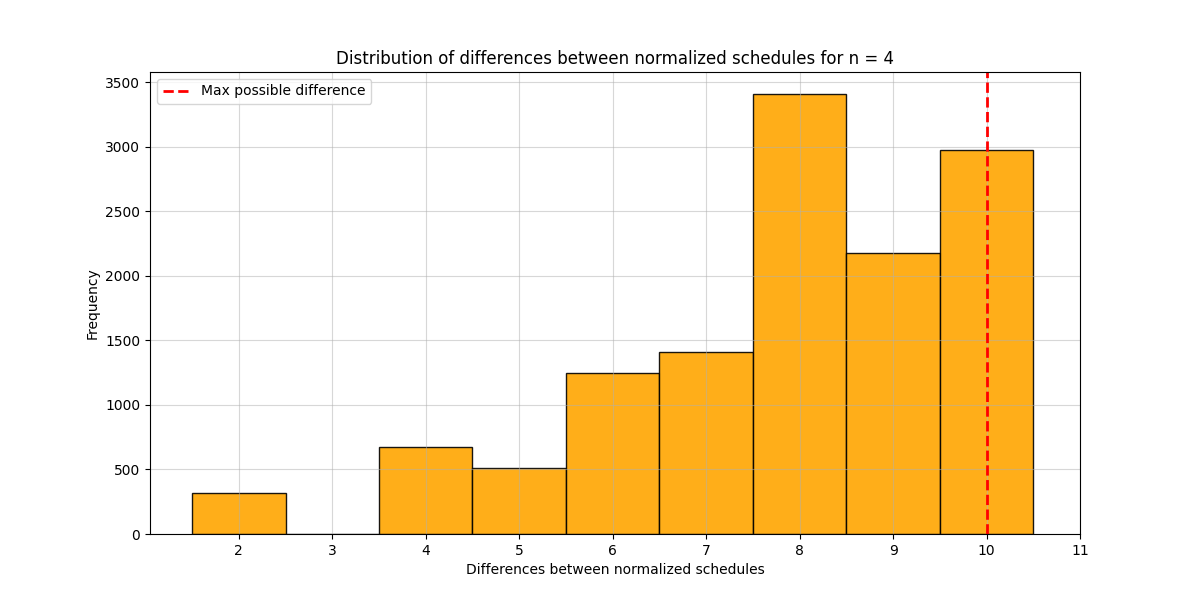
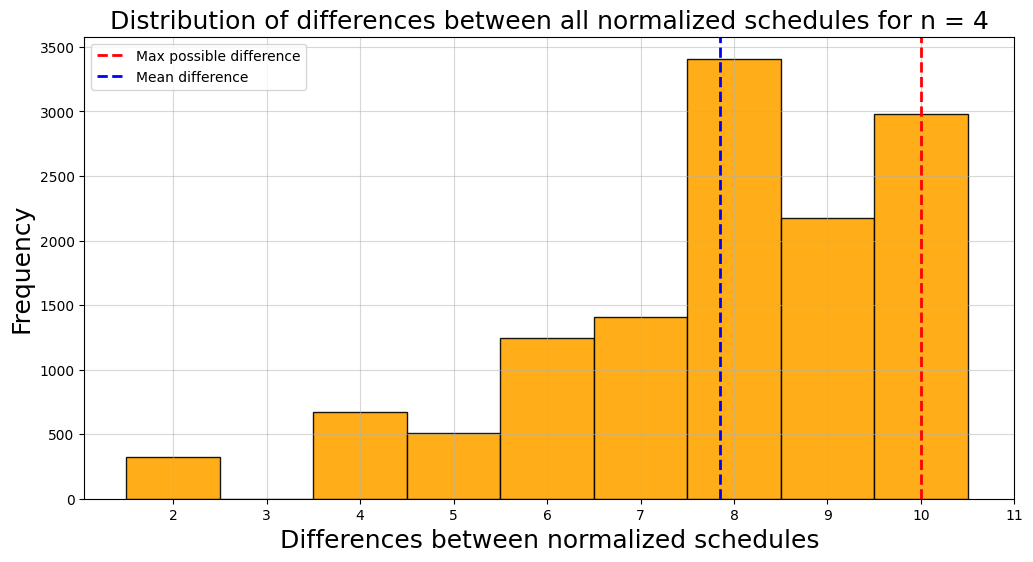
Plot updates

diff --git a/plot.py b/plot.py
@@ -46,44 +46,49 @@ def plot_upper_bound(max):
 
 
 def plot_diff_norm(file_path, n, plot_ID, title_add=""):
-    distances = [int(dist) for dist in open(file_path, "r").read()[:-1].split(",")]
+    differances = [int(diff) for diff in open(file_path, "r").read()[:-1].split(",")]
     name = file_path.split("\\")[-1].split(".")[0].split(" ")[-1]
 
-    max_dist = calc_matchups(n) - (n//2)
-    min_dist = min(distances)
+    fontsize = 18
 
-    # Plot type 2 is round based, so the max distance is the number of rounds - 1 for normalized schedules
+    max_diff = calc_matchups(n) - (n//2)
+    min_diff = min(differances)
+    mean_diff = np.mean(differances)
+
+    # Plot type 2 is round based, so the max diffance is the number of rounds - 1 for normalized schedules
     if plot_ID == 2:
-        max_dist = 2 * (n-1) - 1
-        print(max_dist)
+        max_diff = 2 * (n-1) - 1
+        print(max_diff)
 
-    x_axis = range(min_dist, max_dist + 2)
+    x_axis = range(min_diff, max_diff + 2)
 
     plt.figure(figsize=(12, 6))
-    plt.hist(distances, bins=x_axis, align='left', color='orange', alpha=0.9, edgecolor='black', linewidth=1)
-    plt.axvline(x=max_dist, color='red', linestyle='--', linewidth=2, label="Max possible difference")
+    plt.hist(differances, bins=x_axis, align='left', color='orange', alpha=0.9, edgecolor='black', linewidth=1)
+    plt.axvline(x=max_diff, color='red', linestyle='--', linewidth=2, label="Max possible difference")
+    plt.axvline(x=mean_diff, color='blue', linestyle='--', linewidth=2, label="Mean difference")
     plt.xticks(x_axis)
-    plt.xlabel("Differences between normalized schedules")
-    plt.ylabel("Frequency")
+    plt.xlabel("Differences between normalized schedules", fontsize=fontsize)
+    plt.ylabel("Frequency", fontsize=fontsize)
     plt.grid(alpha=0.5)
     plt.legend(loc='upper left', bbox_to_anchor=(0,1))
 
     if plot_ID == 0:
-        plt.title(f"Distribution of differences between {title_add}normalized schedules for n = {n}")
-        plt.savefig(f"Plots/Diff-Norm_{name}.png")
+        plt.title(f"Distribution of differences between {title_add}normalized schedules for n = {n}", fontsize=fontsize)
+        plt.savefig(f"Plots/Diff-Norm_{name}.png", bbox_inches='tight')
     elif plot_ID == 1:
-        plt.title(f"Distribution of differences between {title_add}normalized schedules for n = {n}, disregarding home/away assignments")
-        plt.savefig(f"Plots/Diff-Norm-Reduced_{name}.png")
+        plt.title(f"Distribution of differences between {title_add}normalized schedules for n = {n}\nDisregarding home/away assignments", fontsize=fontsize)
+        plt.savefig(f"Plots/Diff-Norm-Reduced_{name}.png", bbox_inches='tight')
     elif plot_ID == 2:
-        plt.title(f"Distribution of differences between rounds in {title_add}normalized schedules for n = {n}, only considering home/away assignments")
-        plt.savefig(f"Plots/Diff-Norm-Teamlesss_{name}.png")
+        plt.title(f"Distribution of differences between rounds in {title_add}normalized schedules for n = {n}\nOnly considering home/away assignments", fontsize=fontsize)
+        plt.legend(loc='upper left', bbox_to_anchor=(0.75,1))
+        plt.savefig(f"Plots/Diff-Norm-Teamlesss_{name}.png", bbox_inches='tight')
     # Special cases
     elif plot_ID == 3:
-        plt.title(f"Distribution of differences between \"top 8\" normalized schedules for n = {n}")
-        plt.savefig(f"Plots/Diff-Top8_{name}.png")
+        plt.title(f"Distribution of differences between \"top 8\" normalized schedules for n = {n}", fontsize=fontsize)
+        plt.savefig(f"Plots/Diff-Top8_{name}.png", bbox_inches='tight')
     elif plot_ID == 4:
-        plt.title(f"Distribution of differences between \"top 8\" normalized schedules for n = {n}, disregarding home/away assignments")
-        plt.savefig(f"Plots/Diff-Reduced-Top8_{name}.png")
+        plt.title(f"Distribution of differences between \"top 8\" normalized schedules for n = {n}\nDisregarding home/away assignments", fontsize=fontsize)
+        plt.savefig(f"Plots/Diff-Reduced-Top8_{name}.png", bbox_inches='tight')
 
     plt.show()
 
